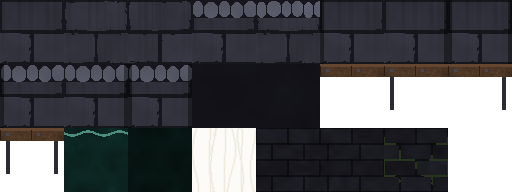
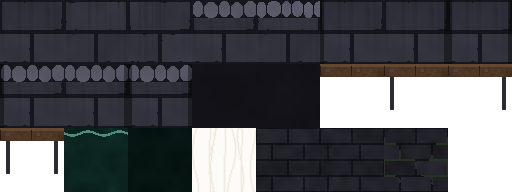
Rounded, lit characters; brighter, calmer wet stone
- Actors are painted into small SubViewports and shown through a
  volume shader that bends normals toward the silhouette's edge, so
  lamps and moonlight shade them like solid forms. The same shader
  works on illustrated sprites.
- Softer bumps and gloss on the stone (no pinpoint sparkle), stronger
  ambient, moon and lamps to make up for normal-mapped falloff.
- Indoor back walls take lamplight and your lantern, not the moon.
- The canal reflects more of what's above it.

Claude-Session: https://claude.ai/code/session_018c7unzrMakpNDSM7eb57uZ

diff --git a/tools/tiles.py b/tools/tiles.py
@@ -19,7 +19,7 @@ from PIL import Image
 
 S = 64          # texture px per tile
 COLS = 8
-BUMP = 3.2      # normal-map strength
+BUMP = 1.8      # normal-map strength
 
 # name -> (col, row, kind). Filled in by build().
 TILES = {}
@@ -83,8 +83,16 @@ def blocks(course_h, block_w, offset, seed, bevel=5.0):
     return h, shade
 
 
+def soften(h, passes=2):
+    for _ in range(passes):
+        h = (h + np.roll(h, 1, 0) + np.roll(h, -1, 0) + np.roll(h, 1, 1) + np.roll(h, -1, 1)) / 5.0
+    return h
+
+
 def normal_map(h):
     # OpenGL convention (green = up on screen), which Godot's 2D lights use.
+    # Softened first, so bevels catch light as broad edges, not pinpoints.
+    h = soften(h)
     dx = (np.roll(h, -1, 1) - np.roll(h, 1, 1)) * 0.5
     dy = (np.roll(h, -1, 0) - np.roll(h, 1, 0)) * 0.5
     n = np.dstack([-dx * BUMP, dy * BUMP, np.ones_like(h)])
@@ -105,22 +113,23 @@ WOOD_DARK = rgb("#2a1d14")
 IRON = rgb("#2c2c33")
 WATER = rgb("#0c2622")
 VEIL = rgb("#e4dcc6")
-WALL = rgb("#22222b")
+WALL = rgb("#2c2c37")
 
 
 def stone_tile(variant, top, left, right):
     seed = 100 + variant * 7
-    h, shade = blocks(32, 64, 32, seed)
+    h, shade = blocks(32, 64, 32, seed, bevel=8.0)
     grain = fbm(seed + 3)
     pits = fbm(seed + 5, (4, 2))
-    h = h * (0.75 + 0.25 * grain) - (pits > 0.72) * 0.25
+    h = h * (0.8 + 0.2 * grain) - soften((pits > 0.72) * 0.1, 1)
     col = np.where(h[..., None] > 0.2, STONE * (0.85 + 0.15 * shade[..., None] * 0.6 + 0.25 * (grain[..., None] - 0.5)), MORTAR)
     # Faint rain-dark streaks running down the face, fading as they go.
     across = value_noise(2, seed + 9)[0:1, :].repeat(S, 0)
     down = 1.0 - yy / S * (0.4 + 0.6 * value_noise(8, seed + 10))
     streak = np.clip((across - 0.55) * 3.0, 0, 1) * down
     col *= 1.0 - 0.1 * streak[..., None]
-    gloss = np.where(h > 0.2, 0.35 + 0.25 * streak + 0.2 * grain, 0.08)
+    # Wet on the flat of each block, duller on the worn edges.
+    gloss = np.where(h > 0.85, 0.3 + 0.2 * streak + 0.1 * grain, np.where(h > 0.2, 0.15, 0.05))
     if top:
         # Rounded cobbles along the top edge, wet and catching the light.
         band = 18
@@ -136,7 +145,7 @@ def stone_tile(variant, top, left, right):
         h[:band] = th * 1.1
         cob = STONE_TOP * (0.8 + 0.3 * grain[:band, :, None])
         col[:band] = np.where(th[..., None] > 0.05, cob, MORTAR)
-        gloss[:band] = np.where(th > 0.05, 0.75 + 0.2 * grain[:band], 0.3)
+        gloss[:band] = np.where(th > 0.5, 0.55 + 0.15 * grain[:band], 0.15)
     if left:
         col[:, :4] *= 0.6
         h[:, :4] *= np.linspace(0.3, 1, 4)[None, :]
@@ -222,7 +231,7 @@ def wall_tile(variant):
         # Moss in the joints.
         moss = (h < 0.3) & (fbm(seed + 4) > 0.55)
         col[moss] = rgb("#26331f")
-    gloss = np.where(h > 0.2, 0.15 + 0.5 * (damp > 0.55), 0.05)
+    gloss = np.where(h > 0.8, 0.1 + 0.25 * (damp > 0.55), 0.04)
     return col, h * 0.7, gloss, np.ones((S, S), np.float32)
 
 
@@ -291,8 +300,8 @@ def write_tileset():
 diffuse_texture = ExtResource("1_albedo")
 normal_texture = ExtResource("2_normal")
 specular_texture = ExtResource("3_specular")
-specular_color = Color(0.82, 0.88, 1, 1)
-specular_shininess = 0.7
+specular_color = Color(0.45, 0.5, 0.6, 1)
+specular_shininess = 0.6
 
 [sub_resource type="TileSetAtlasSource" id="TileSetAtlasSource_greybox"]
 texture = SubResource("CanvasTexture_greybox")

diff --git a/tools/build_level.py b/tools/build_level.py
@@ -147,7 +147,8 @@ def write(slug, name, signs, w, h, ground, back, marks, water):
             f'level_name = "{esc(name)}"', f"size_tiles = Vector2i({w}, {h})", ""]
     # Tiles are drawn at 64px and shown at half size: twice the detail, and
     # each cell is still 32 world px.
-    out += ['[node name="BackWall" type="TileMapLayer" parent="."]', "z_index = -1", "scale = Vector2(0.5, 0.5)",
+    # light_mask 2: indoor walls take lamplight and your lantern, not the moon.
+    out += ['[node name="BackWall" type="TileMapLayer" parent="."]', "z_index = -1", "light_mask = 2", "scale = Vector2(0.5, 0.5)",
             f"tile_map_data = {tile_data(back)}", 'tile_set = ExtResource("2_tiles")', ""]
     out += ['[node name="Ground" type="TileMapLayer" parent="."]', "scale = Vector2(0.5, 0.5)",
             f"tile_map_data = {tile_data(ground)}", 'tile_set = ExtResource("2_tiles")', ""]
